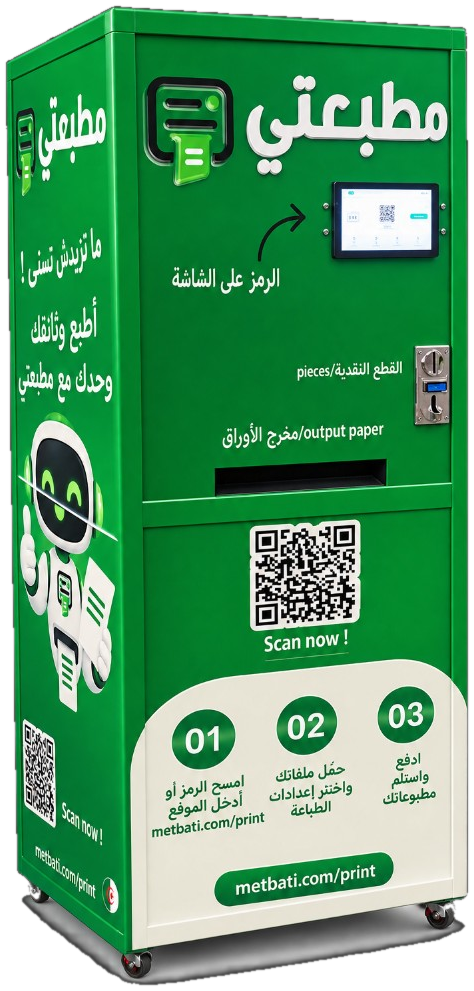
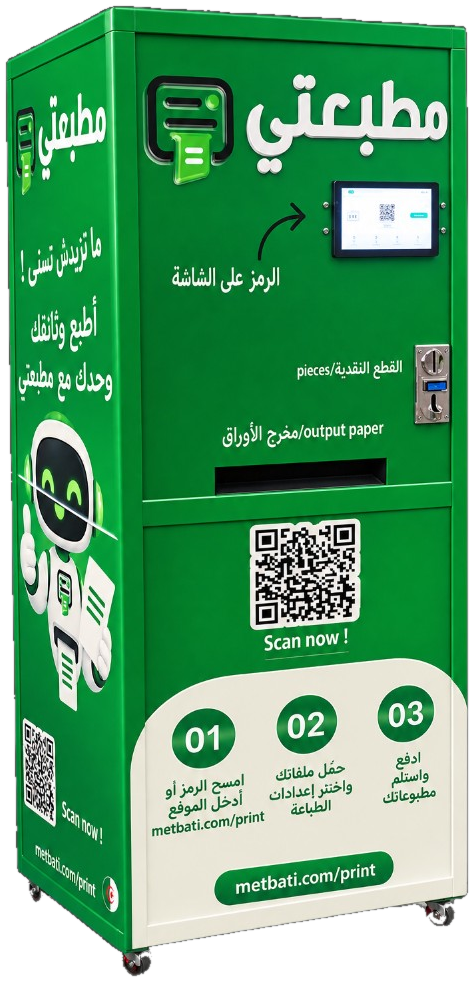
Serve the kiosk as a transparent PNG and drop the dark pedestal glow around it.

diff --git a/resources/js/Components/Hero.jsx b/resources/js/Components/Hero.jsx
@@ -3,7 +3,7 @@ import AnimateIn from './AnimateIn';
 import { ArrowRight } from './Icons';
 import { useLandingLocale } from '../lib/LandingLocale';
 
-const kioskSrc = '/images/kiosk-real.jpg';
+const kioskSrc = '/images/kiosk-real.png';
 
 export default function Hero() {
     const { t, isAr } = useLandingLocale();
@@ -66,11 +66,7 @@ export default function Hero() {
                         >
                             <div
                                 aria-hidden="true"
-                                className="absolute inset-x-[8%] bottom-[4%] h-[12%] rounded-[100%] bg-ink/20 blur-2xl"
-                            />
-                            <div
-                                aria-hidden="true"
-                                className="absolute -inset-6 sm:-inset-10 rounded-[40%] bg-primary/15 blur-3xl"
+                                className="absolute -inset-6 sm:-inset-10 rounded-[40%] bg-primary/12 blur-3xl"
                             />
 
                             <motion.div
@@ -79,10 +75,10 @@ export default function Hero() {
                             >
                                 <img
                                     alt={t.hero.kioskAlt}
-                                    className="relative z-10 w-full h-auto select-none drop-shadow-[0_28px_50px_rgba(6,78,59,0.28)]"
+                                    className="relative z-10 w-full h-auto select-none drop-shadow-[0_18px_36px_rgba(6,78,59,0.22)]"
                                     src={kioskSrc}
-                                    width={682}
-                                    height={1024}
+                                    width={474}
+                                    height={991}
                                     decoding="async"
                                     fetchPriority="high"
                                 />

diff --git a/resources/js/Components/KioskShowcase.jsx b/resources/js/Components/KioskShowcase.jsx
@@ -3,7 +3,7 @@ import AnimateIn from './AnimateIn';
 import { ArrowRight, Check } from './Icons';
 import { useLandingLocale } from '../lib/LandingLocale';
 
-const kioskSrc = '/images/kiosk-real.jpg';
+const kioskSrc = '/images/kiosk-real.png';
 
 export default function KioskShowcase() {
     const { t, isAr } = useLandingLocale();
@@ -41,16 +41,12 @@ export default function KioskShowcase() {
                         className="absolute inset-0 -z-10 m-auto h-[65%] w-[75%] rounded-full bg-primary/10 blur-[90px]"
                     />
                     <div className="relative w-full max-w-[200px] sm:max-w-[240px] md:max-w-[280px]">
-                        <div
-                            aria-hidden="true"
-                            className="absolute inset-x-[10%] bottom-[2%] h-[10%] rounded-[100%] bg-ink/15 blur-xl"
-                        />
                         <motion.img
                             alt={t.showcase.alt}
                             src={kioskSrc}
-                            width={682}
-                            height={1024}
-                            className="relative z-10 w-full h-auto drop-shadow-[0_24px_48px_rgba(6,78,59,0.25)]"
+                            width={474}
+                            height={991}
+                            className="relative z-10 w-full h-auto drop-shadow-[0_16px_32px_rgba(6,78,59,0.2)]"
                             initial={{ opacity: 0, y: 20 }}
                             whileInView={{ opacity: 1, y: 0 }}
                             viewport={{ once: true, amount: 0.35 }}
